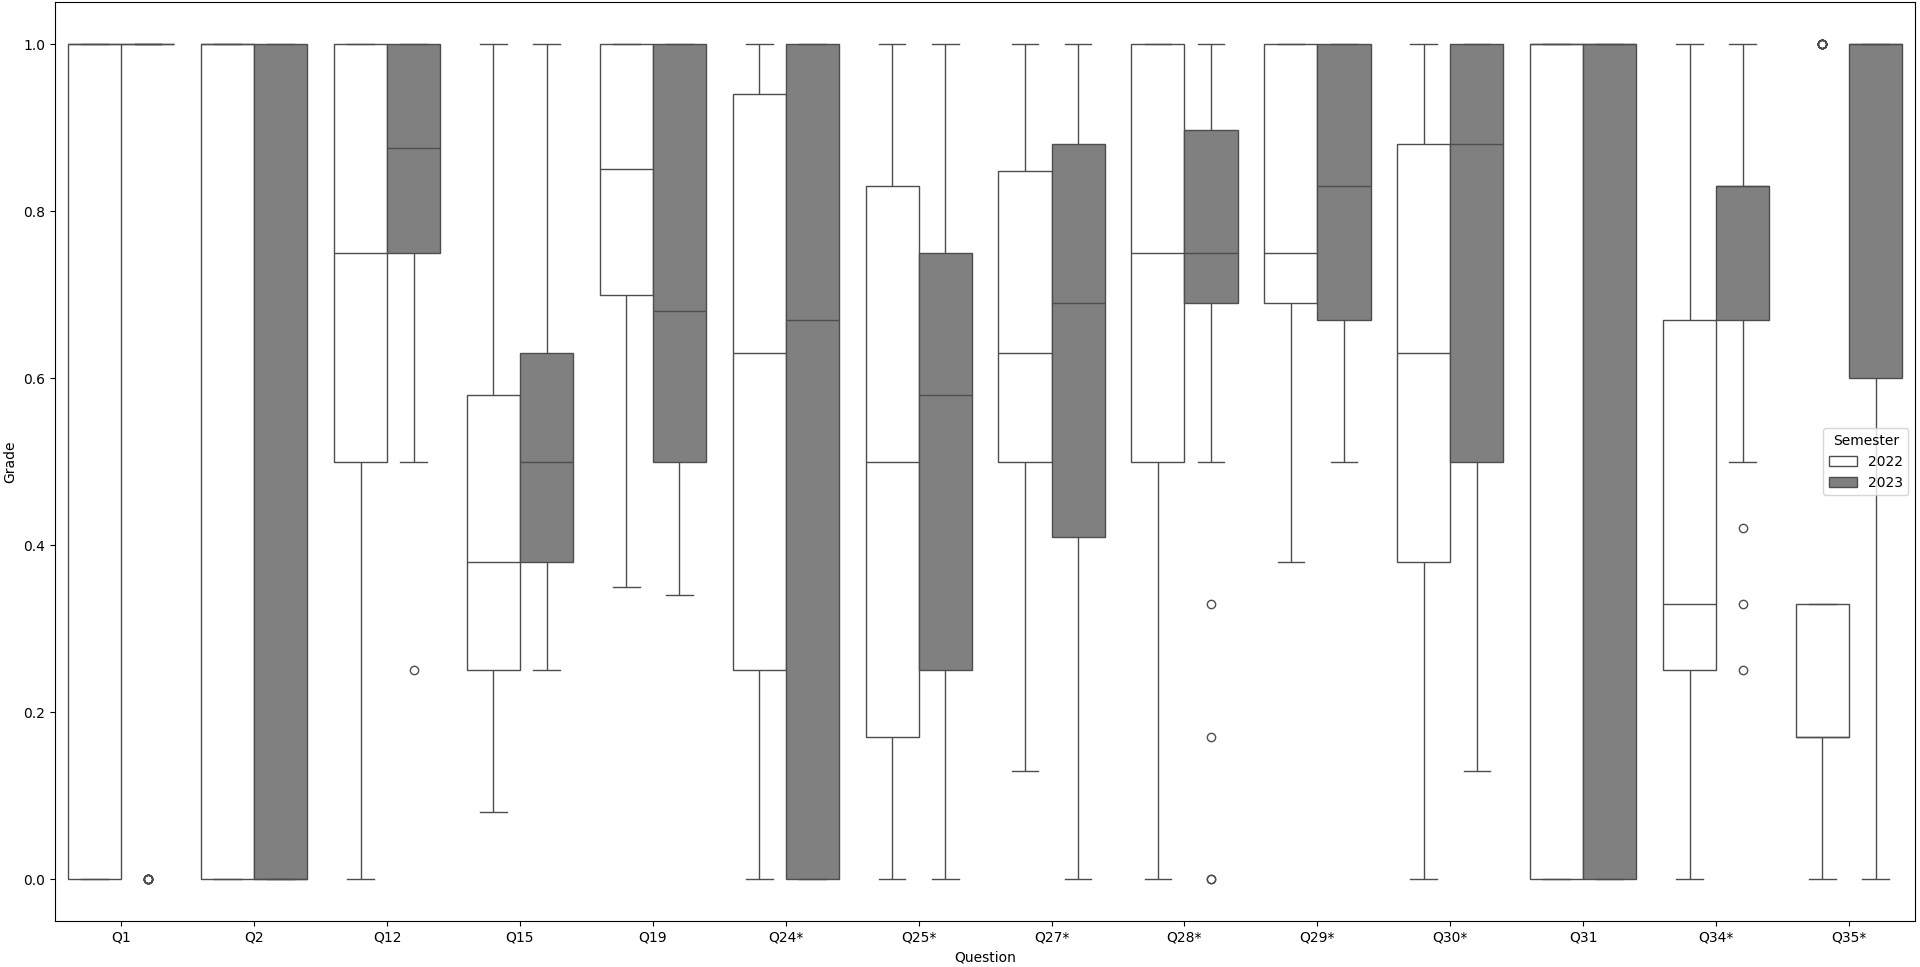
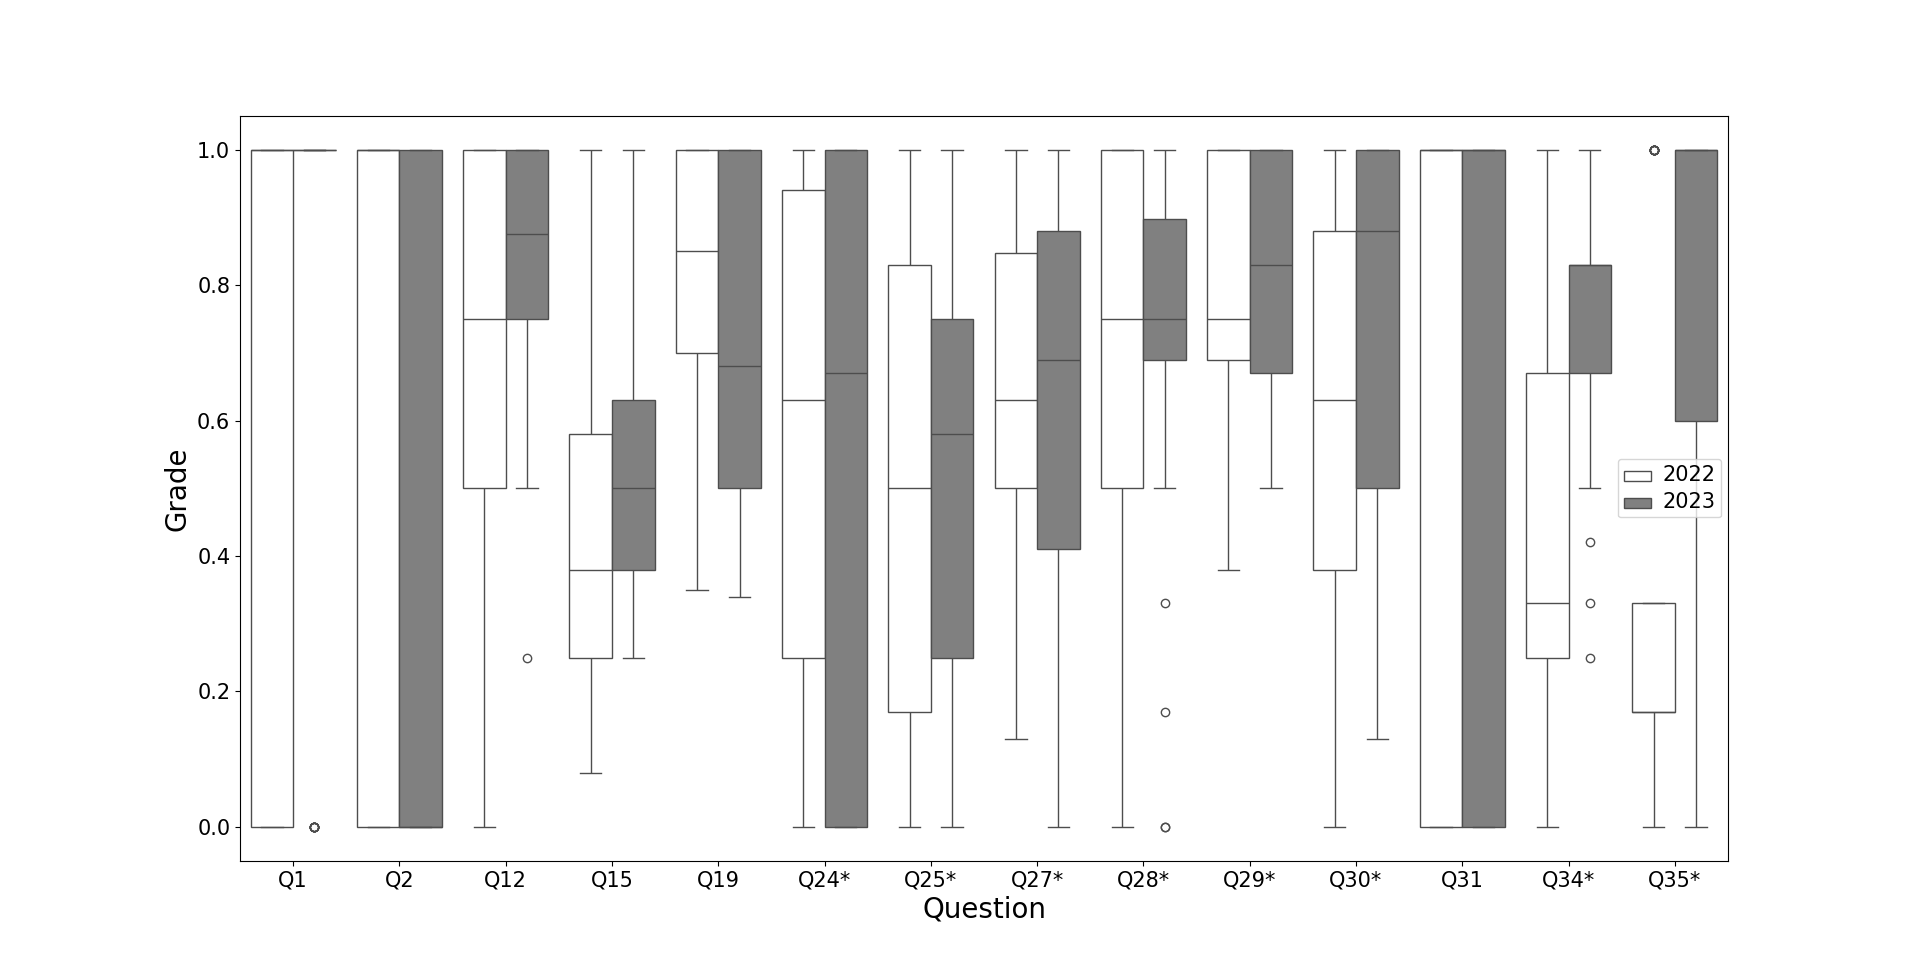
Images

diff --git a/interface/frontEnd.py b/interface/frontEnd.py
@@ -67,12 +67,24 @@ def showBoxplotComparationPrePosPandemic():
 	custom_palette = {'2019': "white", '2022-1': "gray"}
 	
 	# create grouped boxplot  
-	sns.boxplot (	
+	ax = sns.boxplot (	
 		x = data['Question'], 
 		y = data['Grade'], 
 		hue = data['Semester'],
 		palette=custom_palette
 	)
+
+	ax.set_xlabel('Question', fontsize=20)
+	ax.set_ylabel('Grade', fontsize=20)
+
+	# Increase size of tick labels
+	ax.tick_params(axis='x', labelsize=15)
+	ax.tick_params(axis='y', labelsize=15)
+
+	legend = ax.legend()
+	for text in legend.get_texts():
+		text.set_fontsize(15)
+
 	plt.show()
 
 def showBoxplotComparationPosPandemic():
@@ -82,12 +94,27 @@ def showBoxplotComparationPosPandemic():
 	custom_palette = {2022: "white", 2023: "gray"}
 	
 	# create grouped boxplot  
-	sns.boxplot (	
+	ax = sns.boxplot (	
 		x = data['Question'], 
 		y = data['Grade'], 
 		hue = data['Semester'],
 		palette=custom_palette
 	)
+
+	ax.set_xlabel('Question', fontsize=30)
+	ax.set_ylabel('Grade', fontsize=30)
+
+	# Increase size of tick labels
+	ax.tick_params(axis='x', labelsize=25)
+	ax.tick_params(axis='y', labelsize=25)
+
+	legend = ax.legend()
+	for text in legend.get_texts():
+		text.set_fontsize(25)
+
+	plt.show()
+
+
 	plt.show()
 
 def questionSemesterBoxPlot(question, semester):
